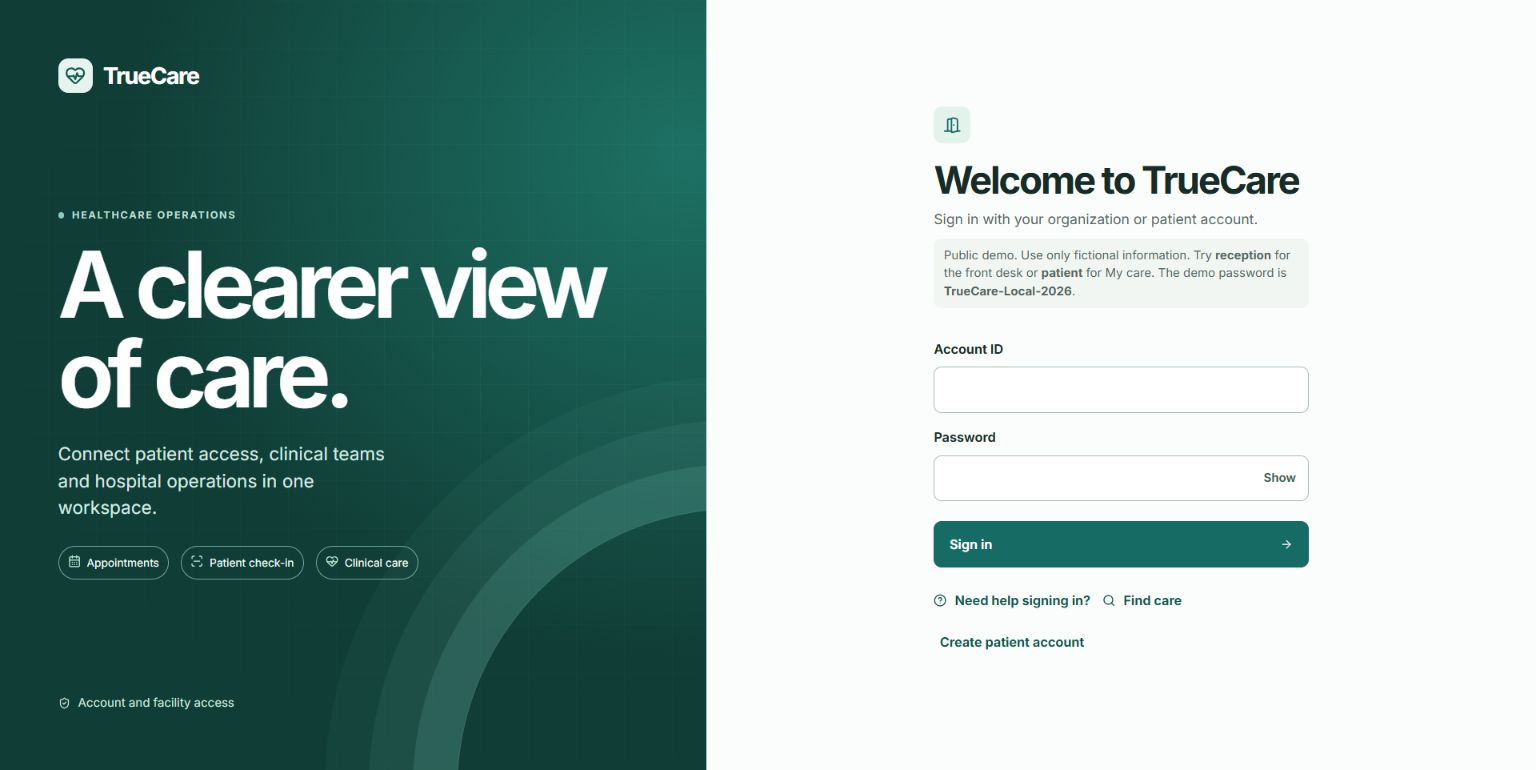
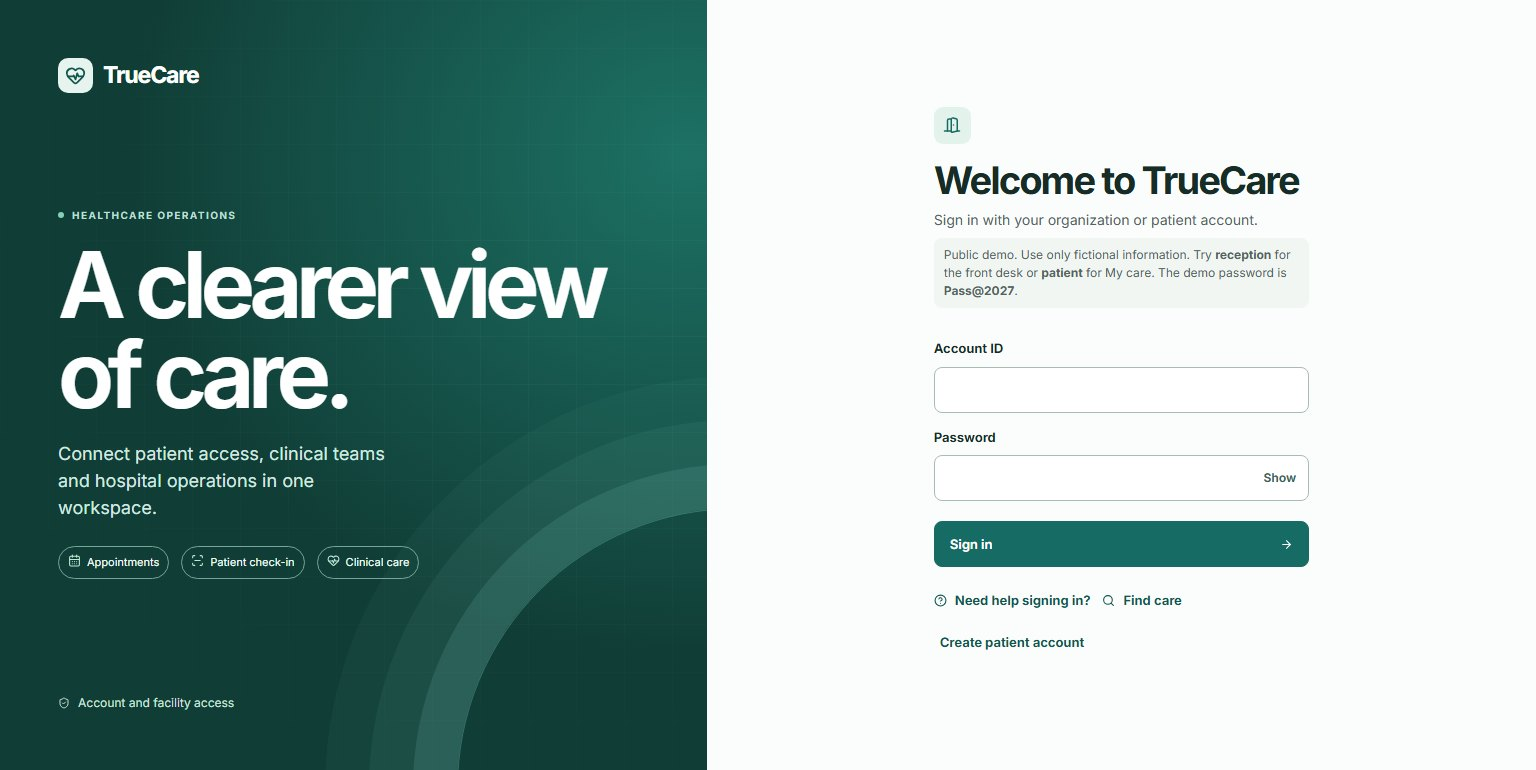
Rotate the shared TrueCare demo password

diff --git a/src/app/mocks/rest.spec.ts b/src/app/mocks/rest.spec.ts
@@ -38,6 +38,7 @@ import type { FinanceData } from '../domain/finance';
 import type { InsuranceRow } from '../domain/insurance';
 import type { InventoryData, ProcurementData } from '../domain/procurement';
 import { criticalCareWard, type AcuteView } from '../domain/acute-care';
+import { accountNames } from './accounts';
 import { db, initialize } from './database';
 import { handle } from './rest';
 import { seed } from './seed';
@@ -82,7 +83,20 @@ function headers(session?: Session, facility?: string) {
 }
 
 const login = (account: string) =>
-  post('session', { account, password: 'TrueCare-Local-2026' }) as Promise<Session>;
+  post('session', { account, password: 'Pass@2027' }) as Promise<Session>;
+
+it('accepts the new shared password and rejects the previous one for every built-in account', async () => {
+  for (const account of Object.keys(accountNames)) {
+    await expect(
+      post('session', { account, password: 'TrueCare-Local-2026' }),
+    ).rejects.toMatchObject({
+      status: 401,
+    });
+    const session = await login(account);
+    expect(session.account).toBe(account);
+    await db.sessions.delete(session.token);
+  }
+});
 
 describe('patient self-registration', () => {
   const password = 'Synthetic-Dawn-28';
@@ -146,7 +160,7 @@ describe('patient self-registration', () => {
         'occurredAt',
         'type',
       ]);
-      await expect(signIn(account, 'TrueCare-Local-2026')).rejects.toMatchObject({ status: 401 });
+      await expect(signIn(account, 'Pass@2027')).rejects.toMatchObject({ status: 401 });
       await expect(signIn(account)).resolves.toMatchObject({ patientId: session.patientId });
       await expect(get('portal', session, 'mer-central')).rejects.toMatchObject({ status: 403 });
       await expect(get('patients', session, 'sunrise')).rejects.toMatchObject({ status: 403 });

diff --git a/e2e/operations.spec.ts b/e2e/operations.spec.ts
@@ -6,7 +6,7 @@ import { dayInIndia, shiftDay } from '../src/app/domain/operations';
 async function signIn(page: Page, account: string) {
   await page.goto('/');
   await page.getByLabel('Account ID').fill(account);
-  await page.getByLabel('Password', { exact: true }).fill('TrueCare-Local-2026');
+  await page.getByLabel('Password', { exact: true }).fill('Pass@2027');
   await page.getByRole('button', { name: 'Sign in', exact: true }).click();
   await expect(page).toHaveURL(/\/work\//, { timeout: 20_000 });
 }
@@ -339,7 +339,7 @@ test('finds published care and preserves the selected visit through patient sign
   await appointment.getByRole('link', { name: 'Sign in to book' }).click();
   await expect(page).toHaveURL(/\/sign-in\?/);
   await page.getByLabel('Account ID').fill('patient');
-  await page.getByLabel('Password', { exact: true }).fill('TrueCare-Local-2026');
+  await page.getByLabel('Password', { exact: true }).fill('Pass@2027');
   await page.getByRole('button', { name: 'Sign in', exact: true }).click();
   await expect(page).toHaveURL(/\/find-care\?/);
   await expect(time).toHaveValue(chosenTime);

diff --git a/src/app/mocks/access.ts b/src/app/mocks/access.ts
@@ -11,7 +11,7 @@ import {
   subscriptionAccount,
 } from './accounts';
 import { db } from './database';
-import { passwordVerifier } from './credentials';
+import { demoAccountPassword, passwordVerifier } from './credentials';
 
 export class ApiError extends Error {
   constructor(
@@ -103,7 +103,7 @@ export async function startSession(body: unknown): Promise<Session> {
   )
     throw invalid();
   if (Object.hasOwn(accountNames, account)) {
-    if (password !== 'TrueCare-Local-2026') throw invalid();
+    if (password !== demoAccountPassword) throw invalid();
   } else {
     const enrolled = await db.patientAccounts.get(account);
     if (!enrolled || (await passwordVerifier(password, enrolled.salt)) !== enrolled.verifier)

diff --git a/src/app/core/evaluation.hosted.ts b/src/app/core/evaluation.hosted.ts
@@ -1,6 +1,7 @@
 import { createEvaluationInterceptor } from './evaluation-interceptor';
+import { demoAccountPassword } from '../mocks/credentials';
 
 export const evaluationAvailable =
   globalThis.location?.origin === 'https://tch-healthcare-demo.pages.dev';
-export const hostedDemoPassword = evaluationAvailable ? 'TrueCare-Local-2026' : null;
+export const hostedDemoPassword = evaluationAvailable ? demoAccountPassword : null;
 export const evaluationInterceptor = createEvaluationInterceptor(evaluationAvailable);

diff --git a/src/app/mocks/credentials.ts b/src/app/mocks/credentials.ts
@@ -1,3 +1,5 @@
+export const demoAccountPassword = 'Pass@2027';
+
 export async function passwordVerifier(password: string, salt: readonly number[]) {
   const key = await crypto.subtle.importKey(
     'raw',

diff --git a/docs/PROGRESS.md b/docs/PROGRESS.md
@@ -1,5 +1,10 @@
 # Progress ledger
 
+## Demo sign-in password, 27 November 2026
+
+- Rotated the shared password for all 43 built-in accounts. The mock sign-in and hosted sign-in page use the same value. Invitation-based patient enrollment continues to use a password chosen by the patient. [Credentials](../src/app/mocks/credentials.ts) · [Hosted sign-in screenshot](screenshots/cloudflare-demo-sign-in.jpg)
+- Lint, formatting, 57 unit and contract tests, all three builds and release verification passed. The contract rejects the previous password and accepts the new password for every built-in account. Chromium passed the invited enrollment, public booking and clinic access journeys. [Contract cases](../src/app/mocks/rest.spec.ts) · [Release verification](../scripts/verify-release.mjs)
+
 ## Public Cloudflare evaluation, 27 November 2026
 
 - Preserved the existing commit history at [TCH-Healthcare on GitHub](https://github.com/vishalbachhav244/TCH-Healthcare). Added a separate Angular build for the public synthetic demo and kept the local evaluation and inactive release configurations. [Build configuration](../angular.json) · [Deployment guide](DEPLOYMENT_GUIDE.md)

diff --git a/README.md b/README.md
@@ -13,7 +13,7 @@ npm ci
 npm start
 ```
 
-Open [TrueCare on loopback](http://127.0.0.1:4280). Use the following evaluation accounts with the shared password `TrueCare-Local-2026`. Enter only fictional data. Account credentials are distributed in this developer guide.
+Open [TrueCare on loopback](http://127.0.0.1:4280). All built-in demo accounts below use the shared password `Pass@2027`. Newly registered patient accounts use the password chosen during registration. Enter only fictional data.
 
 Open [Find care](http://127.0.0.1:4280/find-care) to browse published sample facilities and times. Select an appointment and sign in with `patient` or `family` to book at Meridian Medical Centre. On the appointment day, open the [self-service kiosk](http://127.0.0.1:4280/kiosk/mer-central) and enter the appointment code or scan a QR pass image.
 
